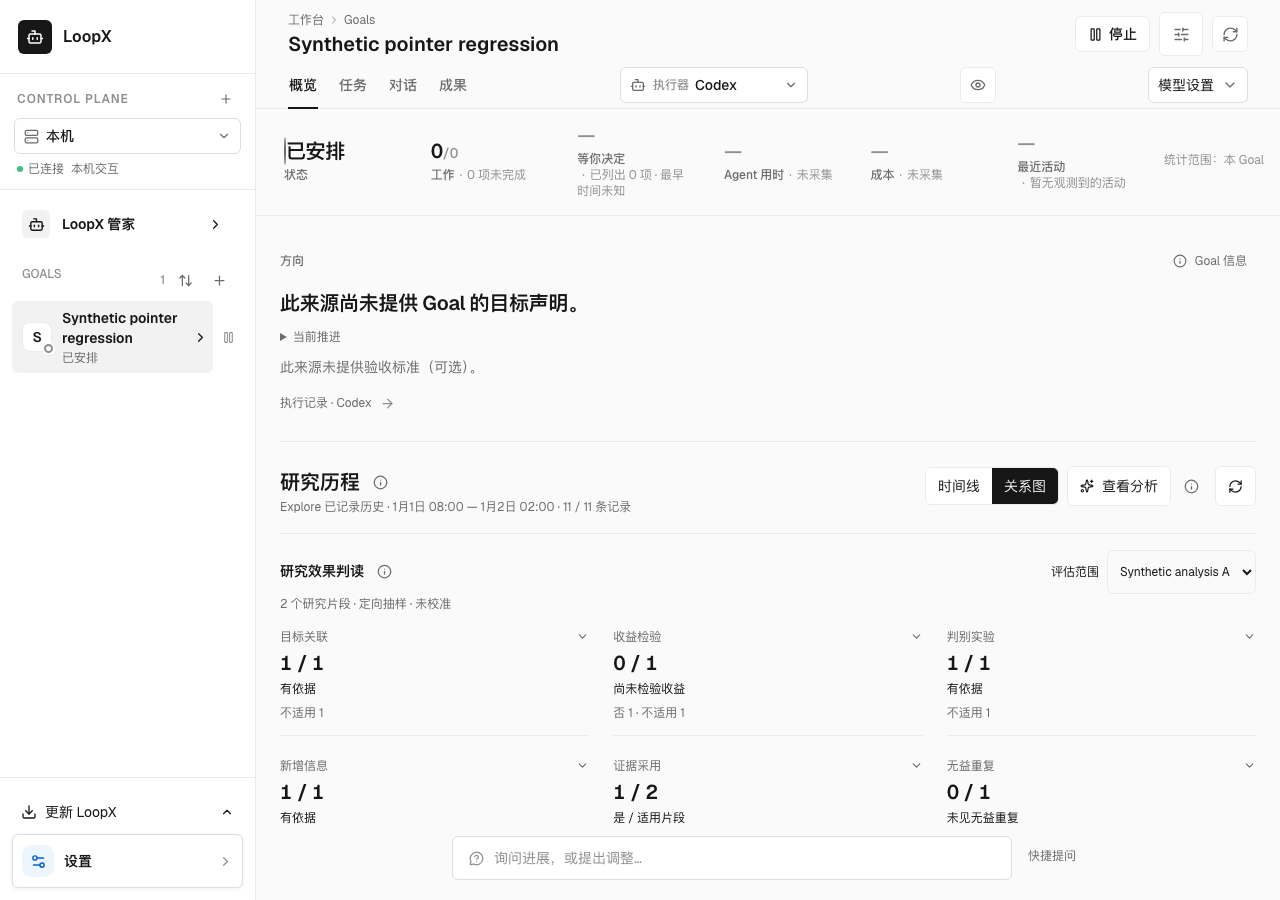
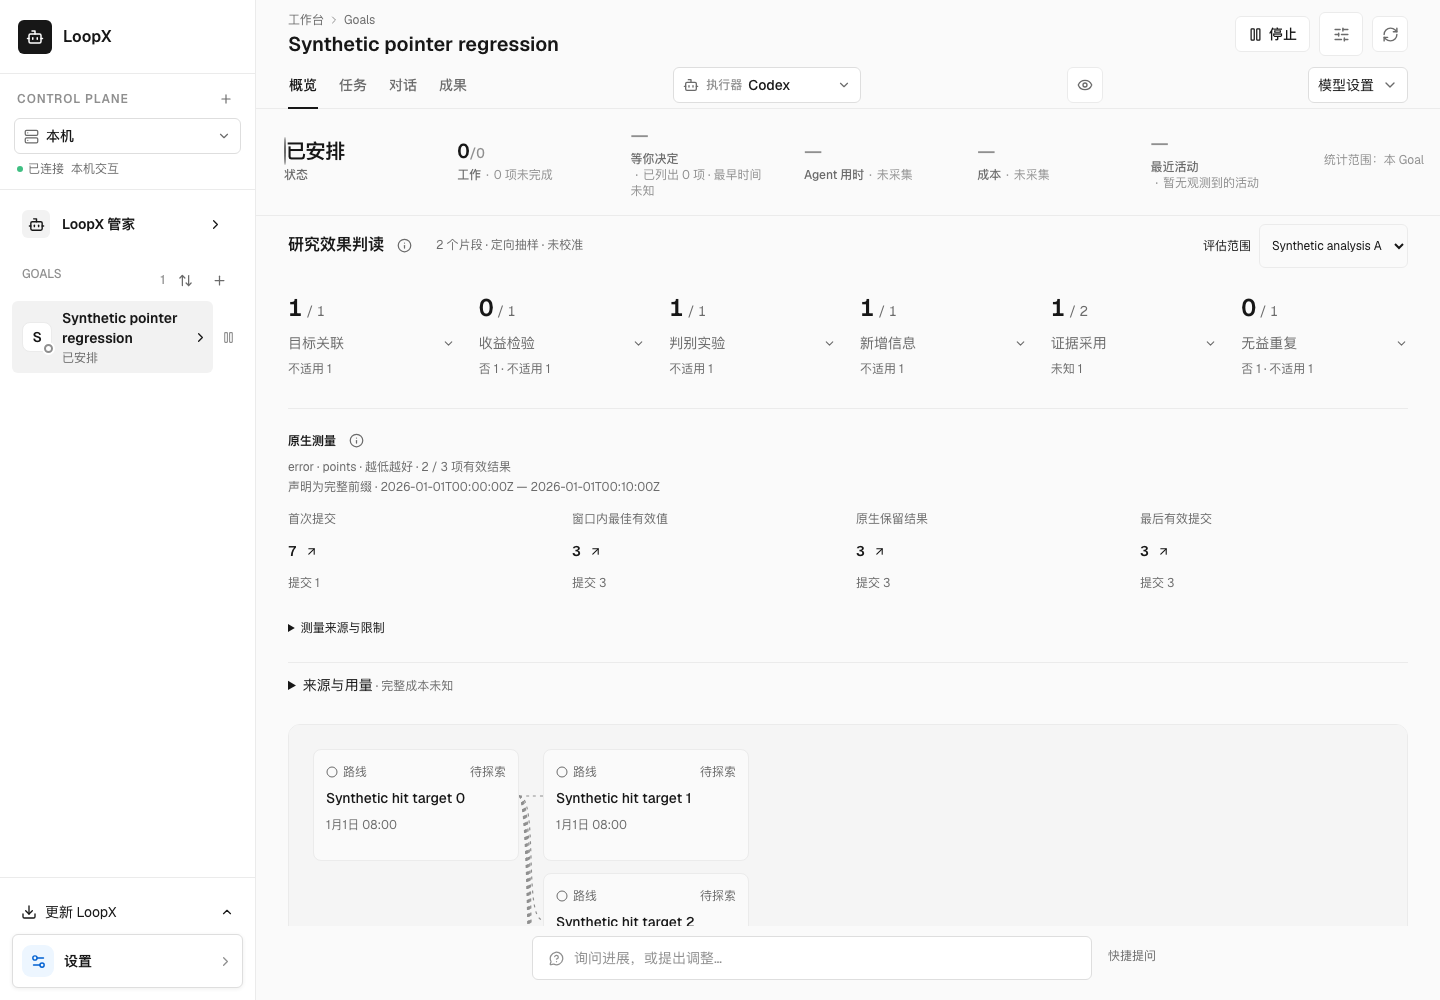
fix(workspace): give research results a compact readable hierarchy

diff --git a/apps/presentation/dashboard/src/features/personal-workspace/goal-research-progress.tsx b/apps/presentation/dashboard/src/features/personal-workspace/goal-research-progress.tsx
@@ -68,19 +68,18 @@ export function ResearchProgress({pack: p, packs, selectedId, error, zh, onSelec
   const duration = (s: number) => `${number(s / 60)} ${zh ? "分钟" : "min"}`;
   const stamp = (s: string) => new Intl.DateTimeFormat(zh ? "zh-CN" : "en", {timeZone: "UTC", year: "numeric", month: "2-digit", day: "2-digit", hour: "2-digit", minute: "2-digit", second: "2-digit", hour12: false}).format(new Date(s));
   return <section className="research-progress" aria-label={zh ? "长程效果与用量" : "Long-horizon results and usage"}>
-    <header><div className="research-progress-title"><h3>{zh ? "研究效果判读" : "Research effectiveness"}</h3><ContextHelp label={zh ? "指标说明" : "About these metrics"}>
+    <header><div className="research-progress-heading"><div className="research-progress-title"><h3>{zh ? "研究效果判读" : "Research effectiveness"}</h3><ContextHelp label={zh ? "指标说明" : "About these metrics"}>
       {p ? <p>{p.title}</p> : null}
       <p>{zh ? "分析器判读未校准，仅限所选片段；范围外或未捕获的工作未纳入。数字为“是 / 适用片段”，未知仍在分母中；点选指标可看依据。" : "Uncalibrated judgments of selected episodes only; work outside this scope or not captured is excluded. Counts are yes / eligible episodes, including unknowns. Select a metric for evidence."}</p>
       <p>{zh ? "不适用来自原始片段的明确取样规则，不算“否”或“未知”；展开指标可看被排除的片段。" : "Ineligible episodes follow the source's explicit selection, not a no or unknown judgment. Expand a metric to identify them."}</p>
       <p>{zh ? "收益检验的“是”不保证收益为正；无益重复的“是”表示发现问题。六项分别判断，不合成总分、成功率或原生收益。" : "Yes for benefit testing does not imply positive utility; yes for repetition identifies a problem. The six judgments are not a total score, success rate or native utility."}</p>
       <p>{p?.selection.exhaustive ? (zh ? "仅覆盖声明的固定分析范围，不等于覆盖全部研究。" : "Covers the declared fixed analysis scope, not necessarily the whole study.") : p?.selection.population_episodes == null ? (zh ? "定向抽样，全程覆盖未知。" : "Purposive sample; whole-run coverage is unknown.") : (zh ? "定向抽样，不代表全程。" : "Purposive sample, not the whole run.")}</p>
-      <p>{zh ? "原生测量缺失时保持未采集；分析器判读不能补成实际收益。完整取样规则与版本在“来源、方法与覆盖”中。" : "Missing native measurements remain uncaptured; judgments cannot supply realized utility. Full selection rules and revisions are under Sources, method and coverage."}</p>
-    </ContextHelp></div>{packs.length > 1 ? <label>{zh ? "评估范围" : "Evaluation scope"}<select value={selectedId} onChange={e => onSelect(e.target.value)}>{packs.map(pack => <option key={pack.pack_id} value={pack.pack_id}>{pack.title}</option>)}</select></label> : null}</header>
+      <p>{zh ? "原生测量缺失时保持未采集；分析器判读不能补成实际收益。完整取样规则与版本在“来源与用量”中。" : "Missing native measurements remain uncaptured; judgments cannot supply realized utility. Full selection rules and revisions are under Sources and usage."}</p>
+    </ContextHelp></div>{p ? <p className="research-progress-scope" data-pack-id={p.pack_id}>{number(p.episode_count)} {zh ? "个片段" : "episodes"} · {p.selection.exhaustive ? (zh ? "固定范围" : "Fixed scope") : (zh ? "定向抽样" : "Purposive sample")}{result ? (zh ? " · 未校准" : " · Uncalibrated") : ""}</p> : null}</div>{packs.length > 1 ? <label>{zh ? "评估范围" : "Evaluation scope"}<select value={selectedId} onChange={e => onSelect(e.target.value)}>{packs.map(pack => <option key={pack.pack_id} value={pack.pack_id}>{pack.title}</option>)}</select></label> : null}</header>
     {error ? <p className="research-progress-warning" role="alert">{p
       ? (zh ? "无法核对本次来源；已显示的值仅为上次读回。" : "The source could not be refreshed. Displayed values are from the last readback.")
       : (zh ? "所选来源暂不可读，未显示其他范围的结果。" : "The selected source could not be read. No result from another scope is shown.")} {error}</p> : null}
     {p ? <>
-      <p className="research-progress-scope" data-pack-id={p.pack_id}>{number(p.episode_count)} {zh ? "个研究片段" : "research episodes"} · {p.selection.exhaustive ? (zh ? "固定范围" : "Fixed scope") : (zh ? "定向抽样" : "Purposive sample")}{result ? (zh ? " · 未校准" : " · Uncalibrated") : ""}</p>
       {p.applicability === "historical" ? <p className="research-progress-warning" role="status">{zh ? "历史分析：来源或方法已变化，不能当作当前判断。" : "Historical analysis: the source or method changed; these are not current judgments."}</p> : null}
       {result ? <div className="research-process-counts">
         <div className="research-effect-metrics" key={p.pack_id}>
@@ -92,10 +91,11 @@ export function ResearchProgress({pack: p, packs, selectedId, error, zh, onSelec
             const excluded = row && p.episodes?.length === p.episode_count
               ? p.episodes.filter(episode => !episode.eligible_metrics.includes(metric)) : [];
             const notes = [row?.no ? `${zh ? "否" : "No"} ${number(row.no)}` : "", row?.unknown ? `${zh ? "未知" : "Unknown"} ${number(row.unknown)}` : "", excluded.length ? `${zh ? "不适用" : "Ineligible"} ${number(excluded.length)}` : ""].filter(Boolean);
+            const unavailable = !row ? (zh ? "没有此指标记录" : "No metric record") : !row.eligible && !excluded.length ? (zh ? "不适用" : "N/A") : "";
             return <details className="research-effect-metric" data-metric={metric} key={metric}>
-              <summary><span className="research-effect-title">{label[zh ? 0 : 1]}<ChevronDown size={13} aria-hidden/></span>
-                <strong className="research-effect-number">{row?.eligible ? `${number(row.yes)} / ${number(row.eligible)}` : "—"}</strong>
-                <span className="research-effect-verdict">{!row ? (zh ? "没有此指标记录" : "No metric record") : !row.eligible ? (zh ? "不适用" : "N/A") : assessments.length === 1 ? verdictLabel(metric, assessments[0].verdict, zh) : (zh ? "是 / 适用片段" : "Yes / eligible episodes")}</span>
+              <summary aria-label={[label[zh ? 0 : 1], row?.eligible ? `${number(row.yes)} / ${number(row.eligible)} ${zh ? "是 / 适用片段" : "yes / eligible episodes"}` : unavailable, ...notes].filter(Boolean).join(" · ")}><span className="research-effect-title">{label[zh ? 0 : 1]}<ChevronDown size={13} aria-hidden/></span>
+                <strong className="research-effect-number">{row?.eligible ? <>{number(row.yes)}<span> / {number(row.eligible)}</span></> : "—"}</strong>
+                {unavailable ? <span className="research-effect-verdict">{unavailable}</span> : null}
                 {notes.length ? <small>{notes.join(" · ")}</small> : null}
               </summary>
               <div className="research-effect-evidence"><p>{label[zh ? 2 : 3]}</p>
@@ -114,14 +114,14 @@ export function ResearchProgress({pack: p, packs, selectedId, error, zh, onSelec
           })}
         </div>
       </div> : <p className="research-effect-empty" role="status">{zh ? "所选范围尚未分析" : "No analysis for the selected scope"}</p>}
-      <NativeResults native={p.native_outcomes} zh={zh} onCitation={onCitation}/>
-      <details className="research-progress-basis"><summary>{zh ? "来源、方法与覆盖" : "Sources, method and coverage"}</summary><dl>
+      {p.native_outcomes ? <NativeResults native={p.native_outcomes} zh={zh} onCitation={onCitation}/> : null}
+      <details className="research-progress-basis"><summary>{zh ? "来源与用量" : "Sources and usage"}<span>{p.native_outcomes ? "" : (zh ? " · 原生测量未采集" : " · Native measurements uncaptured")}{zh ? " · 完整成本未知" : " · Total cost unknown"}</span></summary><dl>
         <dt>{zh ? "题目 / 运行" : "Case / run"}</dt><dd>{p.scope.case_id}<br/>{p.scope.run_id}</dd><dt>{zh ? "证据窗口" : "Evidence window"}</dt><dd>{p.scope.window}</dd><dt>{zh ? "取样规则" : "Selection rule"}</dt><dd>{p.selection.rule}</dd>
         <dt>{zh ? "总体研究片段数" : "Population of episodes"}</dt><dd>{p.selection.population_episodes == null ? (zh ? "未知" : "Unknown") : number(p.selection.population_episodes)}</dd>
         {result ? <><dt>{zh ? "分析方法" : "Analysis method"}</dt><dd>{result.method_version} · {zh ? "Agent 判读未校准" : "Uncalibrated Agent judgment"}</dd><dt>{zh ? "结果标识" : "Result key"}</dt><dd><code>{result.analysis_key}</code></dd><dt>{zh ? "分析限制" : "Limitations"}</dt><dd>{result.limitations.map((line, i) => <p key={i}>{line}</p>)}</dd></> : null}
         <dt>{zh ? "来源版本" : "Source revision"}</dt><dd><code>{p.scope.revision}</code></dd>
-      </dl></details>
-      <details className="research-usage"><summary>{zh ? "用量与成本" : "Usage and cost"}{usage ? ` · ${zh ? "捕获跨度" : "Captured elapsed"} ${duration(usage.elapsed_seconds)}` : ` · ${zh ? "尚无完整用量捕获" : "No complete usage capture"}`}{measured?.applicability === "historical" ? (zh ? " · 历史捕获" : " · Historical capture") : ""}</summary>
+      </dl>
+      <section className="research-usage"><h4>{zh ? "用量与成本" : "Usage and cost"}{measured?.applicability === "historical" ? (zh ? " · 历史捕获" : " · Historical capture") : ""}</h4>
         <p>{zh ? "只读捕获，窗口可能与以上判读片段及下方 Explore 历史不同。" : "Read-only capture; its window can differ from the judgments above and Explore history below."}</p>
         <dl className="research-usage-basis">
           <dt>{zh ? "分析尝试开销" : "Analysis attempt cost"}</dt><dd>{p.job?.usage ? <>
@@ -142,7 +142,7 @@ export function ResearchProgress({pack: p, packs, selectedId, error, zh, onSelec
             <dt>{zh ? "输入总量" : "Total input"}</dt><dd>{number(usage.input_tokens)} tokens · {zh ? "其中缓存" : "including cached"} {number(usage.cached_input_tokens)}</dd><dt>{zh ? "用量来源" : "Usage source"}</dt><dd>{measured.artifact}<br/><code>{measured.artifact_sha256}</code><br/>{usage.method}</dd>
             <dt>{zh ? "覆盖边界" : "Coverage limits"}</dt><dd>{zh ? "仅本次完整捕获；继承前缀、设置、原生评测、操作者及后续未完成轮不包含。金额与全研究总成本未知。" : "This complete capture only. Inherited prefixes, setup, native evaluation, operator work and later incomplete Turns are excluded. Dollar and total study costs are unknown."}</dd>
           </dl></> : null}
-      </details>
+      </section></details>
     </> : !error ? <p role="status">{zh ? "正在核对此范围的分析来源…" : "Checking analysis sources for this scope…"}</p> : null}
   </section>;
 }

diff --git a/apps/presentation/dashboard/src/features/personal-workspace/goal-research-progress.css b/apps/presentation/dashboard/src/features/personal-workspace/goal-research-progress.css
@@ -1,23 +1,30 @@
-.research-progress { margin-block: 16px; padding-block: 16px; border-block: 1px solid var(--pw-line); color: var(--pw-text); min-width: 0; overflow-wrap: anywhere; }
+.research-progress { margin-block: 16px 0; padding-block: 8px 0; color: var(--pw-text); min-width: 0; overflow-wrap: anywhere; }
 .research-progress > header { display: flex; align-items: baseline; justify-content: space-between; gap: 16px; }
-.research-progress h3 { margin: 0; font-size: var(--text-body); font-weight: 600; }
+.research-progress h3 { margin: 0; font-size: var(--text-lead); font-weight: 600; }
+.research-progress-heading { display: flex; flex-wrap: wrap; align-items: center; gap: 4px 16px; }
 .research-progress-title { display: flex; align-items: center; gap: 4px; min-width: 0; }
-.research-progress-scope { margin-block: 4px 8px; }
+.research-progress-scope { margin: 0; }
 .research-progress label { display: flex; align-items: center; gap: 8px; min-width: 0; font-size: var(--text-caption); }
 .research-progress select { min-width: 0; max-width: 400px; min-height: 44px; border: 1px solid var(--pw-line); border-radius: 6px; padding: 8px; background: var(--pw-bg); color: var(--pw-text); font: inherit; }
 .research-progress p, .research-progress small { color: var(--pw-muted); font-size: var(--text-caption); line-height: var(--leading-prose); }
 .research-progress summary { min-height: 44px; padding-block: 12px; cursor: pointer; font-size: var(--text-caption); }
-.research-effect-metrics { display: grid; grid-template-columns: repeat(3, minmax(0, 1fr)); gap: 8px 24px; }
-.research-effect-metric { border-block-end: 1px solid var(--pw-line); min-width: 0; }
+.research-effect-metrics { display: grid; grid-template-columns: repeat(6, minmax(0, 1fr)); gap: 8px 24px; margin-block-start: 12px; }
+.research-effect-metric { min-width: 0; }
 .research-effect-metric[open] { grid-column: 1 / -1; }
-.research-effect-metric > summary { display: grid; gap: 4px; list-style: none; }
+.research-effect-metric > summary { display: flex; flex-direction: column; align-items: stretch; gap: 6px; list-style: none; }
 .research-effect-metric > summary::-webkit-details-marker { display: none; }
-.research-effect-title { display: flex; align-items: center; justify-content: space-between; gap: 8px; color: var(--pw-muted); }
+.research-effect-title { display: flex; align-items: center; justify-content: space-between; gap: 8px; color: var(--pw-muted); font-size: var(--text-body); line-height: var(--leading-body); }
+.research-effect-title svg { flex-shrink: 0; }
 .research-effect-metric[open] .research-effect-title svg { transform: rotate(180deg); }
-.research-effect-number { font-size: var(--text-heading); font-weight: 600; font-variant-numeric: tabular-nums; line-height: 1.2; }
+.research-effect-number { order: -1; font-size: var(--text-title); font-weight: 600; font-variant-numeric: tabular-nums; line-height: var(--leading-title); }
+.research-effect-number > span { font-size: var(--text-body); font-weight: 400; color: var(--pw-muted); }
 .research-effect-verdict { font-size: var(--text-caption); }
 .research-effect-metric small { font-size: var(--text-caption); }
 .research-effect-evidence { padding-block-end: 12px; }
+.research-progress-basis { border-block-start: 1px solid var(--pw-line); margin-block-start: 12px; }
+.research-progress-basis > summary { font-size: var(--text-body); }
+.research-progress-basis > summary > span { color: var(--pw-muted); font-size: var(--text-caption); }
+.research-usage h4 { font-size: var(--text-body); margin-block: 16px 8px; }
 .research-effect-evidence h4 { font-size: var(--text-caption); line-height: var(--leading-prose); margin: 8px 0; }
 .research-effect-evidence article { border-block-start: 1px solid var(--pw-line); padding-block: 8px; }
 .research-effect-evidence article > span { font-size: var(--text-caption); }
@@ -46,6 +53,7 @@
 .research-progress-values dt { font-size: var(--text-caption); color: var(--pw-muted); }
 .research-progress-values dd { margin: 4px 0; font-size: var(--text-body); font-weight: 600; font-variant-numeric: tabular-nums; }
 .research-progress-warning { border-inline-start: 2px solid var(--pw-caution); padding-inline-start: 12px; }
+@media (max-width: 1200px) { .research-effect-metrics { grid-template-columns: repeat(3, minmax(0, 1fr)); } }
 @media (max-width: 640px) {
   .research-progress > header { flex-direction: column; gap: 8px; }
   .research-progress label { flex-direction: column; align-items: stretch; width: 100%; }

diff --git a/apps/presentation/dashboard/src/features/personal-workspace/goal-acceptance-contract.tsx b/apps/presentation/dashboard/src/features/personal-workspace/goal-acceptance-contract.tsx
@@ -148,11 +148,11 @@ export function GoalAcceptanceContractSection({goalId, contract: retained, copy,
   </> : null;
   return <section className={`delivery-acceptance-contract${overview ? " is-overview" : ""}`} aria-label={copy.title} aria-busy={busy}>
     <div className="delivery-acceptance-content">
-      <header className="delivery-check-heading"><div>{!overview || plan ? <h3>{copy.title}</h3> : null}
+      {!overview || plan || enabled ? <header className="delivery-check-heading"><div>{!overview || plan ? <h3>{copy.title}</h3> : null}
         <p className={overview && (plan || enabled) ? "goal-overview-objective" : undefined}>{plan ? plan.document.objective : enabled ? contract.objective : (zh ? "Agent 准备检查方案后，可在这里检查交付物。" : "Check the delivery here once the Agent prepares a plan.")}</p>{plan ? <p>{zh ? "将保存这份方案、更新相关任务的验收关联，并在本机运行以下检查。准备方案本身不会执行命令。" : "This saves the plan, updates its task associations and runs the following checks locally. Preparation itself executes no commands."}</p> : null}</div>
         {canManage && fresh && (plan || enabled) ? <button className={`delivery-check-primary${plan ? " is-prepared" : ""}`} type="button" disabled={busy || !!error}
           onClick={() => void operate(plan ? "adopt" : "verify")}>{busy ? (zh ? "正在检查…" : "Checking…") : plan ? (zh ? "采用并检查" : "Use plan and check") : (zh ? "检查交付" : "Check delivery")}</button> : null}
-      </header>
+      </header> : null}
       {overview && !enabled && !plan ? children : null}
       {plan ? <div className="delivery-check-plan">
         <p>{plan.document.scope.kind === "all_advancement" ? copy.allWork

diff --git a/apps/presentation/dashboard/src/features/personal-workspace/goal-research-history.tsx b/apps/presentation/dashboard/src/features/personal-workspace/goal-research-history.tsx
@@ -173,7 +173,7 @@ export function GoalResearchHistory({goalId, active, zh, refreshRevision = 0}: {
       {lens === "graph" ? <p>{zh ? "按来源分组，实线为已记录关联，虚线仅表示分组；排列不代表时间或进展。未关联问题按首次记录 UTC 日期收纳。" : "Grouped by source. Solid lines are recorded relationships; dotted lines only group nodes. Position does not imply time or progress. Unlinked questions are collected by first-record UTC date."}</p> : null}
       <p>{zh ? "合拢仅为避免遮挡，不表示关联或因果；选择一次可读全部原始记录与依据。" : "Nearby points group to avoid overlap, without implying a relationship or causality. Select once to read every original record and source."}</p>
     </ContextHelp></div>
-      <p className="research-history-coverage" role="status">{copy.scope}{value?.startAt ? <> · <time>{timeLabel(value.startAt)}</time> — <time>{timeLabel(value.endAt)}</time></> : null} · {busy ? `${copy.reading} ${loaded}${read.total ? ` / ${read.total}` : ""}`
+      <p className="research-history-coverage" role="status">{copy.time}{value?.startAt ? <> · <time>{timeLabel(value.startAt)}</time> — <time>{timeLabel(value.endAt)}</time></> : null} · {busy ? `${copy.reading} ${loaded}${read.total ? ` / ${read.total}` : ""}`
         : read.total === null ? (zh ? "来源尚未读到" : "Source has not been read")
           : `${read.events.length} / ${read.total} ${copy.records}${read.complete ? "" : ` · ${copy.partial}`}`}</p></div>
       <div className="research-history-controls">

diff --git a/apps/presentation/dashboard/src/features/personal-workspace/goal-overview.css b/apps/presentation/dashboard/src/features/personal-workspace/goal-overview.css
@@ -25,6 +25,8 @@
 .goal-overview .goal-overview-heading button:hover { border-color: transparent; background: var(--pw-hover); color: var(--pw-text); }
 
 .goal-overview-objective { max-width: 44em; color: var(--pw-text); font-size: var(--text-heading); font-weight: 600; letter-spacing: -0.015em; line-height: var(--leading-heading); text-wrap: pretty; }
+.goal-overview-objective.is-unavailable { font-size: var(--text-body); line-height: var(--leading-body); font-weight: 400; color: var(--pw-muted); letter-spacing: normal; }
+.goal-overview .delivery-acceptance-content > [role="alert"] { display: flex; flex-wrap: wrap; align-items: center; gap: 8px; }
 /* One quiet line above the hero: what changed since the owner's last look. Idle content stays still. */
 .goal-overview-since { display: flex; flex-wrap: wrap; align-items: center; gap: 6px 14px; margin: 0 0 16px; padding-bottom: 12px; border-bottom: 1px solid var(--pw-line); color: var(--pw-muted); font-size: var(--text-caption); line-height: var(--leading-caption); font-variant-numeric: tabular-nums; }
 .goal-overview-since button { min-height: 28px; padding: 0 10px; border: 1px solid var(--pw-line-strong); border-radius: 6px; background: transparent; color: var(--pw-text); font-size: var(--text-caption); cursor: pointer; }

diff --git a/apps/presentation/dashboard/src/features/personal-workspace/goal-overview.tsx b/apps/presentation/dashboard/src/features/personal-workspace/goal-overview.tsx
@@ -80,7 +80,7 @@ export function GoalOverview({ active, goal, items, userTodos, readOnly, onOpenD
           <h2>{copy.direction}</h2>
           <button onClick={onOpenDetails} type="button"><Info aria-hidden size={14} />{copy.details}</button>
         </header>
-        <p className="goal-overview-objective" data-testid="goal-declared-objective">{digest.objective ?? copy.objectiveUnavailable}</p>
+        <p className={`goal-overview-objective${digest.objective ? "" : " is-unavailable"}`} data-testid="goal-declared-objective">{digest.objective ?? copy.objectiveUnavailable}</p>
         <details className="goal-overview-agent-note"><summary>{copy.current}</summary>
           <p className="goal-overview-note">{goal.nextSentence}</p>
           {goal.agentSentence && goal.agentSentence !== goal.nextSentence ? <details className="goal-overview-agent-note"><summary>{copy.agentSummary}</summary><p className="goal-overview-note">{goal.agentSentence}</p></details> : null}
